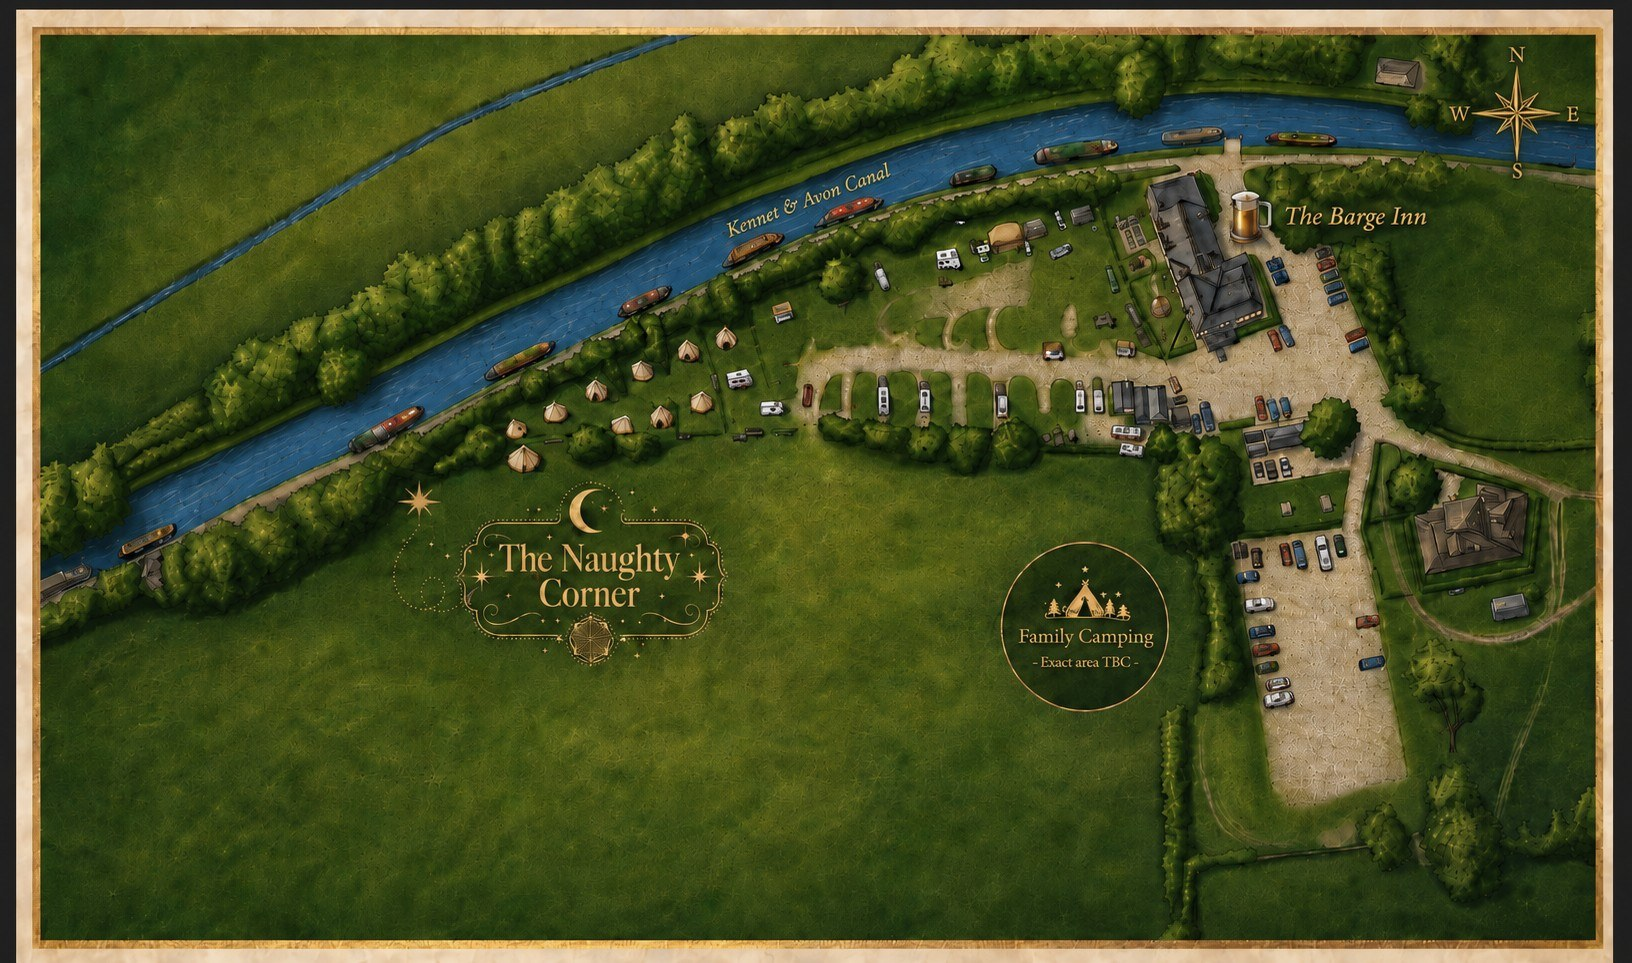
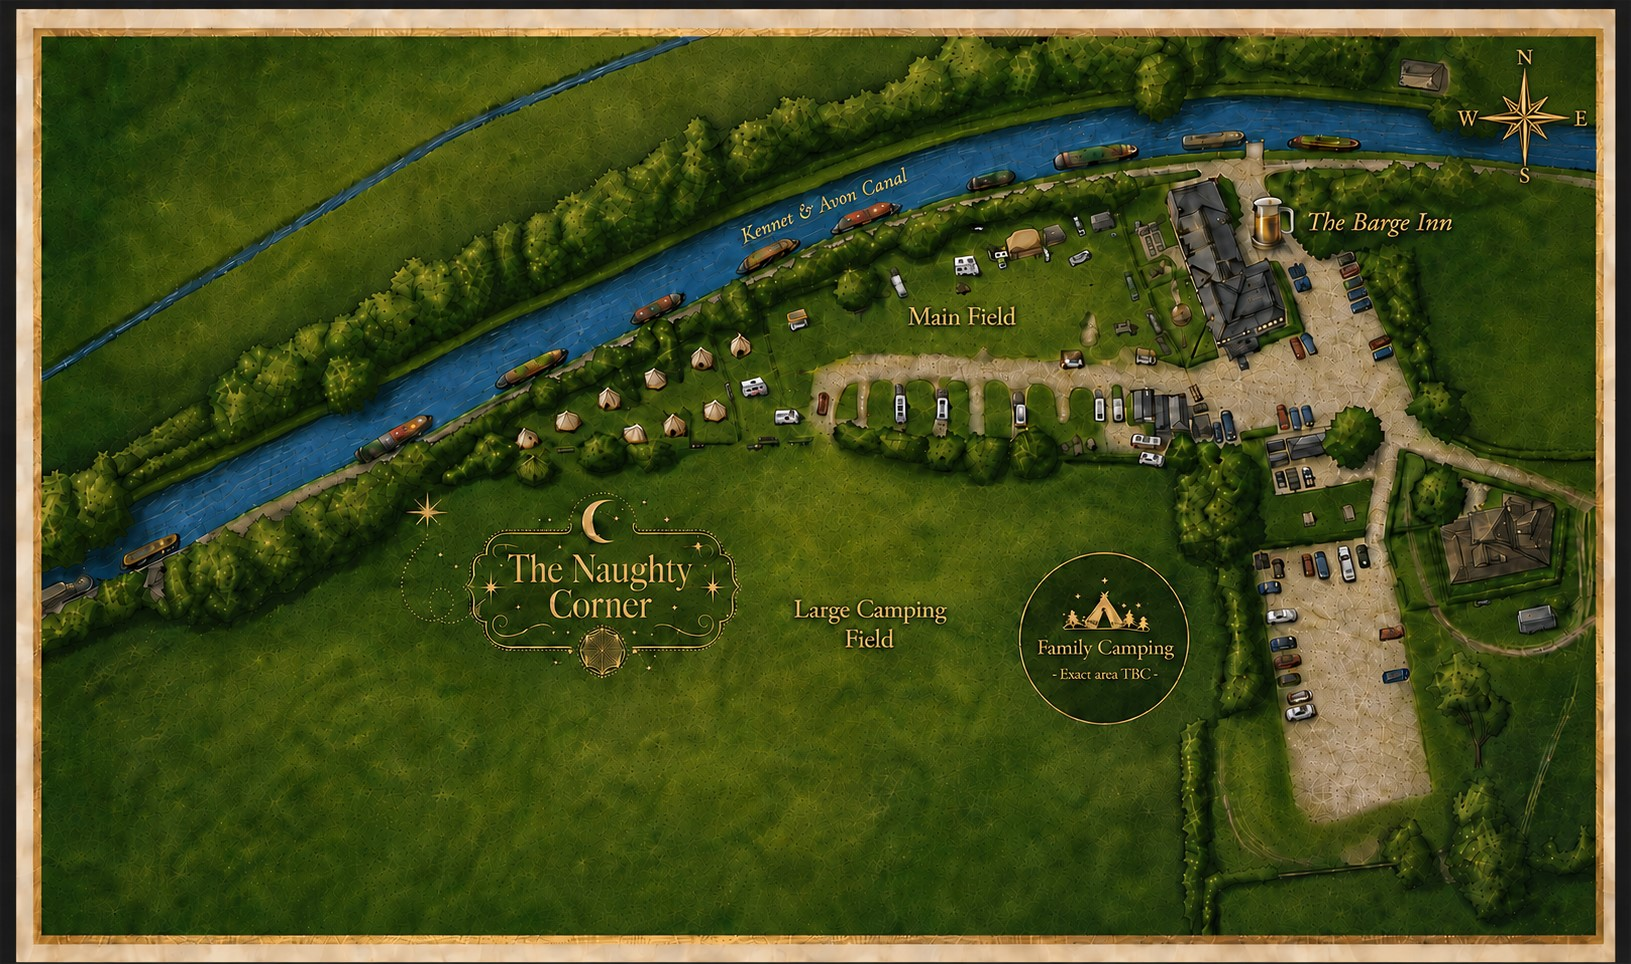
Update lift pool links and ticket email copy

diff --git a/theplan.html b/theplan.html
@@ -554,7 +554,7 @@ nav a.active::after{left:15px;right:15px;}
 <a href="Tickets.html">Tickets</a>
 <a href="Costumes.html">Costumes</a>
 <a href="index.html#getting-there">Travel</a>
-<a href="https://d40-lift-pool.jimmybreeze.workers.dev" target="_blank" rel="noopener">Lift Pool</a>
+<a href="liftpool/">Lift Pool</a>
 <a href="index.html#faq">FAQ</a>
 <!-- RSVP removed from nav -->
 </div>
@@ -580,7 +580,7 @@ nav a.active::after{left:15px;right:15px;}
         <p>When you get there, let the staff know you've arrived at the check-in hut and they’ll point you in the right direction.</p>
         <p>If you don’t mind a load of noise, camp in The Naughty Corner (I promise you I didn't name it that), but don’t complain if we keep you up.</p>
         <p><strong>Everyone else:</strong> head for Family Camping, or choose your own adventure.</p>
-        <p class="day-note"><strong>Lifts:</strong> need one, or offering one? Sort it in the <a class="inline" href="https://d40-lift-pool.jimmybreeze.workers.dev" target="_blank" rel="noopener">lift pool</a>. Ask Danny for the password if you need it.</p>
+        <p class="day-note"><strong>Lifts:</strong> need one, or offering one? Sort it in the <a class="inline" href="liftpool/">lift pool</a>. Password: Amens4Life.</p>
       </article>
 
       <article class="weekend-day">
@@ -642,7 +642,7 @@ nav a.active::after{left:15px;right:15px;}
         <li>Battery lights</li>
         <li>Tarps / ground sheets</li>
       </ul>
-      <p style="margin-top:14px;">One important thing: If you want an electric hookup for your van you'll need to stay in the "main field" (the smaller one nearest the venue) rather than in the Naughty Corner. I'm fairly sure we can have vans in the naughty corner with us as their site lets you book them in there.</p>
+      <p style="margin-top:14px;">One important thing: If you want an electric hookup for your van you'll need to stay in the "main field" (the smaller one nearest the venue) rather than in the Large Camping Field where the Naughty Corner and our Family Camping will be. I'm fairly sure we can have vans in the Large Camping Field with us as their site lets you book them in there.</p>
     </section>
 
     <div class="go-tickets-wrap">

diff --git a/index.html b/index.html
@@ -226,7 +226,7 @@
     <a href="Tickets.html">Tickets</a>
     <a href="Costumes.html">Costumes</a>
     <a href="#getting-there">Travel</a>
-    <a href="https://d40-lift-pool.jimmybreeze.workers.dev" target="_blank" rel="noopener">Lift Pool</a>
+    <a href="liftpool/">Lift Pool</a>
     <a href="#faq">FAQ</a>
   </div>
 </nav>
@@ -513,7 +513,7 @@
       <div class="tcard reveal"><div class="tcard-lbl">By Car</div><p>Off the B3087, parking on site. Main what3words for arrival: <a class="inline" href="https://what3words.com/remake.adults.rave" target="_blank" rel="noopener">///remake.adults.rave</a></p></div>
       <div class="tcard reveal"><div class="tcard-lbl">By Train</div><p>Pewsey is the nearest station, about 10 minutes by taxi. Flag in the form if you need a lift coordinating.</p></div>
       <div class="tcard reveal"><div class="tcard-lbl">By Narrowboat</div><p>It's right on the Kennet &amp; Avon. If you have access to a boat, this is your moment.</p></div>
-      <div class="tcard reveal"><div class="tcard-lbl">Car Pool</div><p>Lots of crossover in where people are coming from. Get in the <a class="inline" href="https://d40-lift-pool.jimmybreeze.workers.dev" target="_blank" rel="noopener">lift pool</a> to share a car or find a lift.</p><p class="muted">Ask Danny for the password if you need it.</p></div>
+      <div class="tcard reveal"><div class="tcard-lbl">Car Pool</div><p>Lots of crossover in where people are coming from. Get in the <a class="inline" href="liftpool/">lift pool</a> to share a car or find a lift.</p><p class="muted">Password: Amens4Life.</p></div>
     </div>
   </div>
   <a class="map-btn getting-there-map-btn" href="https://maps.google.com/?q=The+Barge+Inn+Honey+Street+Pewsey+SN9+5PS" target="_blank">Google Maps</a>

diff --git a/Tickets.html b/Tickets.html
@@ -569,7 +569,7 @@ nav a.active::after{left:15px;right:15px;}
 <a href="Tickets.html" class="active">Tickets</a>
 <a href="Costumes.html">Costumes</a>
 <a href="index.html#getting-there">Travel</a>
-<a href="https://d40-lift-pool.jimmybreeze.workers.dev" target="_blank" rel="noopener">Lift Pool</a>
+<a href="liftpool/">Lift Pool</a>
 <a href="index.html#faq">FAQ</a>
 <!-- RSVP removed from nav -->
 </div>
@@ -754,7 +754,7 @@ nav a.active::after{left:15px;right:15px;}
           <input id="offerLifts" name="offerLifts" type="checkbox">
           I'm driving and can offer lifts.
         </label>
-        <p class="muted">If that's you, please add yourself on the <a class="inline" href="https://d40-lift-pool.jimmybreeze.workers.dev" target="_blank" rel="noopener">Lift Pool page</a>. Ask Danny for the password if you need it.</p>
+        <p class="muted">If that's you, please add yourself on the <a class="inline" href="liftpool/">Lift Pool page</a>. Password: Amens4Life.</p>
       </fieldset>
 
       <fieldset id="people-counts">

diff --git a/liftpool/index.html b/liftpool/index.html
@@ -1,0 +1,14 @@
+<!doctype html>
+<html lang="en">
+<head>
+<meta charset="utf-8">
+<meta name="robots" content="noindex">
+<meta name="viewport" content="width=device-width, initial-scale=1">
+<meta http-equiv="refresh" content="0; url=https://d40-lift-pool.jimmybreeze.workers.dev/">
+<title>Lift Pool</title>
+<link rel="canonical" href="https://d40-lift-pool.jimmybreeze.workers.dev/">
+</head>
+<body>
+<p><a href="https://d40-lift-pool.jimmybreeze.workers.dev/">Go to the lift pool</a>.</p>
+</body>
+</html>
